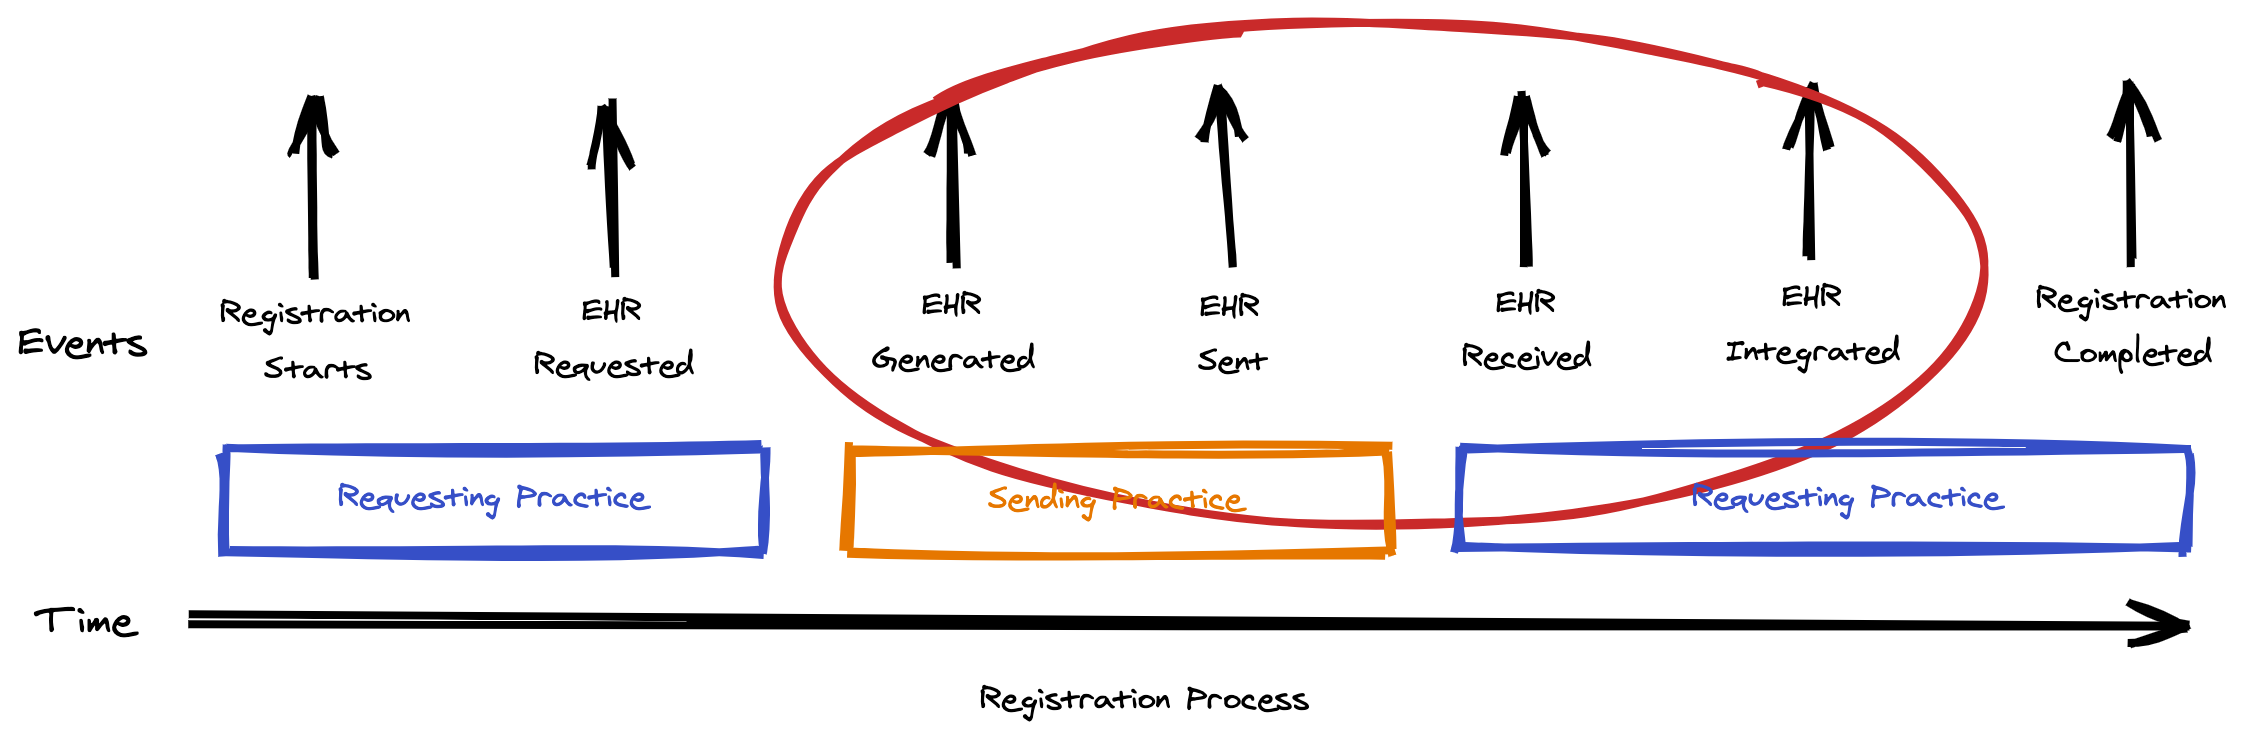
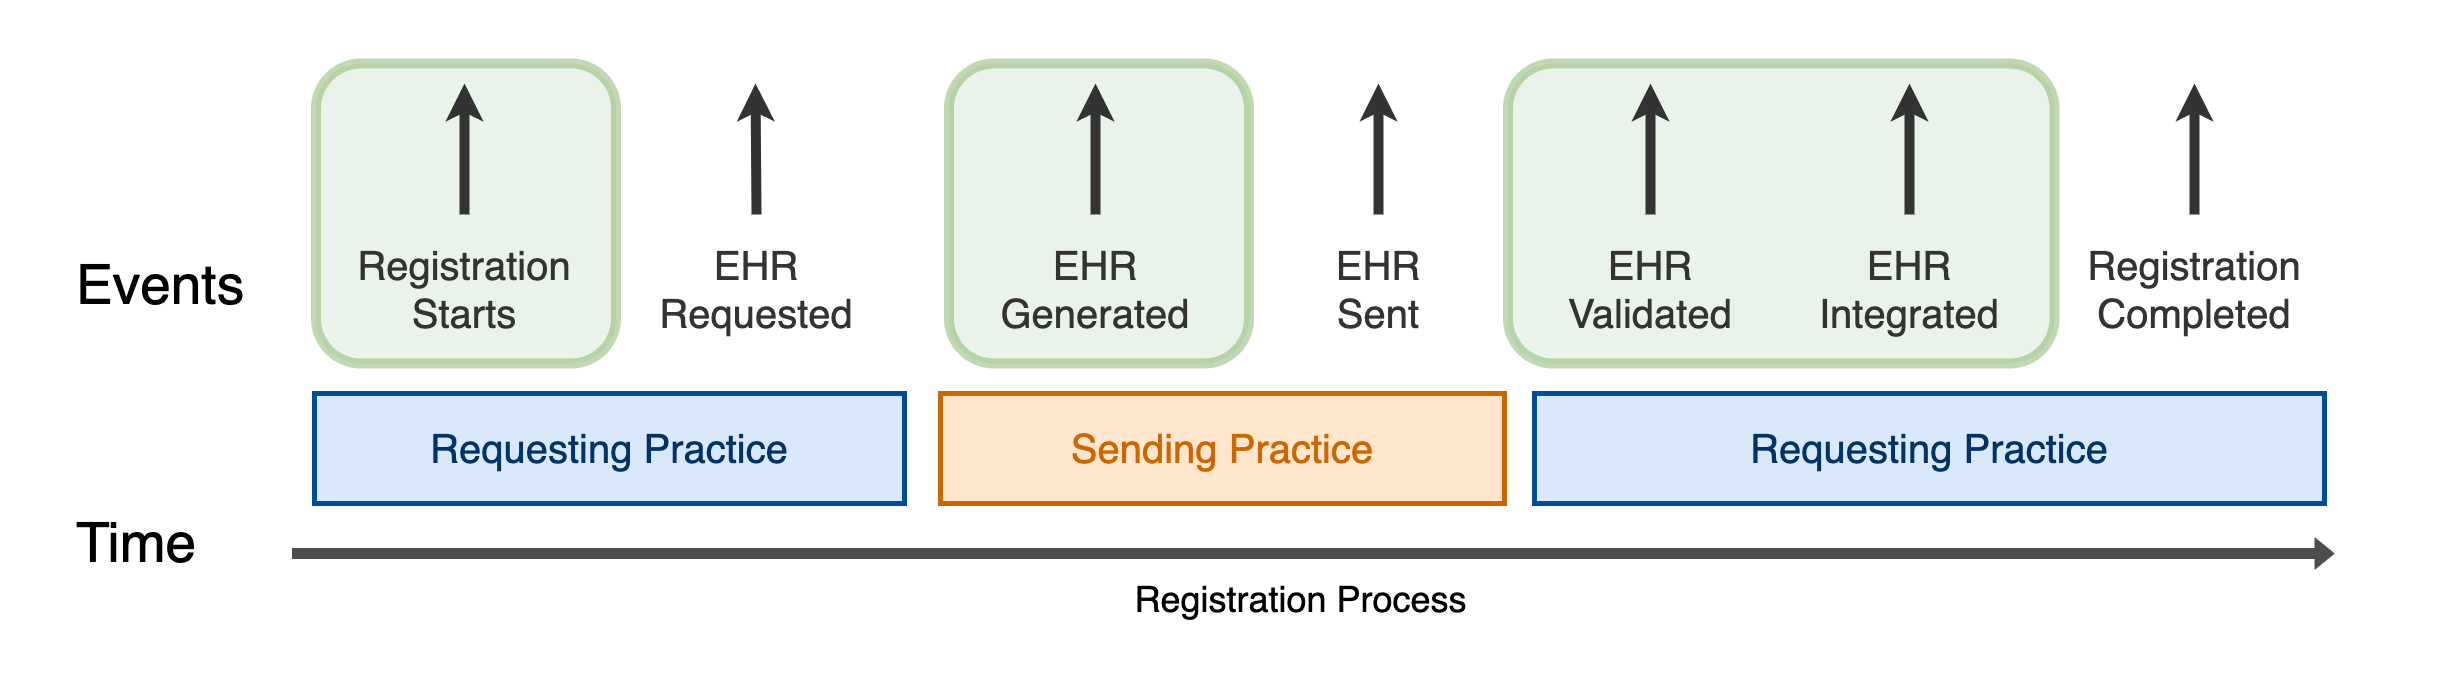
PRMT-1382 [HZ/MP] Update diagrams related to RFC0001 GP2GP MI

Changed region(s): [[0.0, 0.0, 0.9969, 0.7766], [0.0, 0.7766, 0.9969, 0.963], [0.9346, 0.0932, 0.9657, 0.3417]]

diff --git a/src/pages/rfcs/RFC0001_gp2gp_mi/scope.js b/src/pages/rfcs/RFC0001_gp2gp_mi/scope.js
@@ -1,5 +1,5 @@
 import React from "react"
-import { withPrefix, Link } from "gatsby"
+import { withPrefix } from "gatsby"
 import { Helmet } from "react-helmet"
 
 import { PageWithSideMenu } from "../../../components/pagelayouts/pagewithsidemenu"
@@ -93,8 +93,8 @@ const Page = ({ children }) => (
       </p>
       <Image
         src={withPrefix("/RFC0001_gp2gp_mi/scope_example.png")}
-        alt="Highlighting the area of focus for this RFC around the EHR being sent and received"
-        caption="Our area of focus around the EHR being sent and received"
+        alt="Highlighting areas of focus for this RFC around the EHR being sent and received"
+        caption="Our areas of focus around the EHR being sent and received"
         className="image-fullwidth"
       />
       <h3>Event delivery method</h3>
